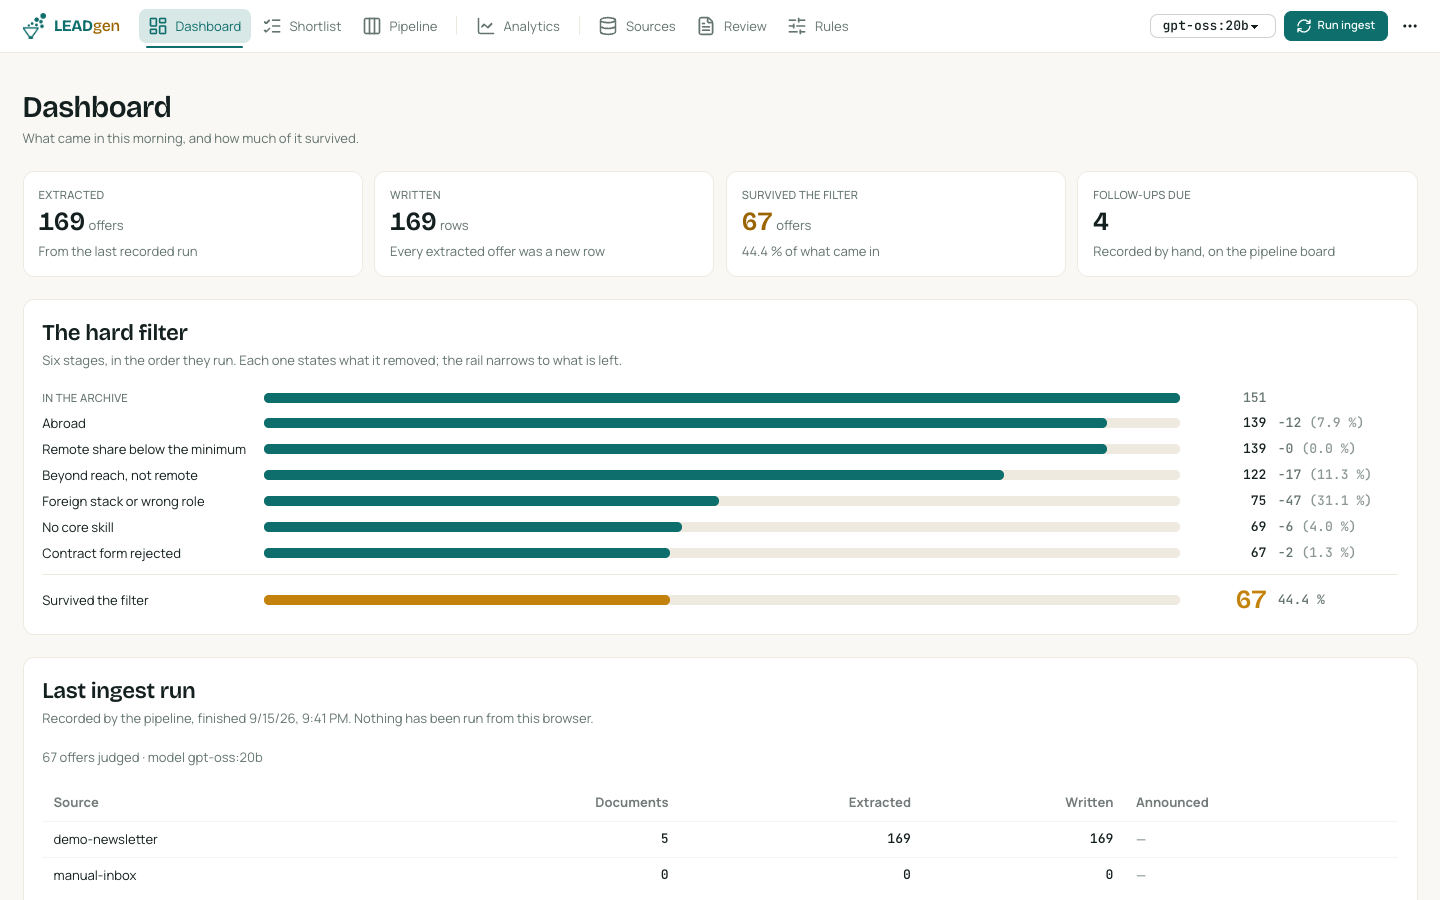
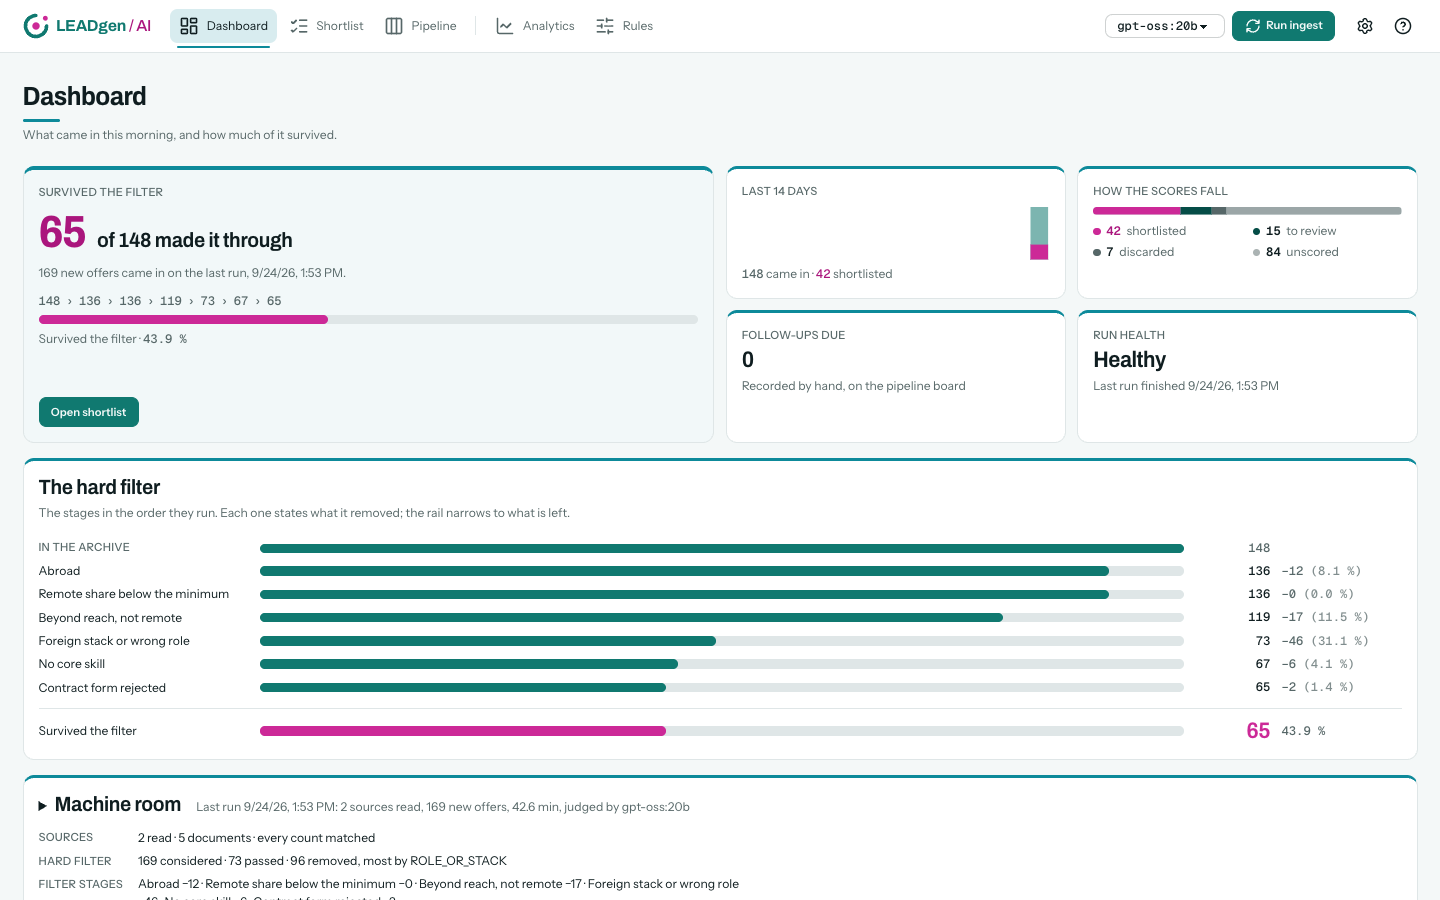
Bump version to 0.5.0
The changelog section for 0.5.0 carries the release notes: the workflow view, the help drawer,
the cover letter written against the ad, and the renovated interface, which is why the minor
moves. The README screenshots are retaken from the demo stack, light theme leading; the parked
review screen gives its place to the help drawer.

diff --git a/frontend/src/app/app.spec.ts b/frontend/src/app/app.spec.ts
@@ -21,7 +21,7 @@ describe('App', () => {
         const fixture = TestBed.createComponent(App);
         fixture.detectChanges();
 
-      httpMock.expectOne('/api/v1/status').flush({application: 'lead-generation', version: '0.4.3'});
+      httpMock.expectOne('/api/v1/status').flush({application: 'lead-generation', version: '0.5.0'});
         // The header asks for the models it may offer at the same time. Answered with one,
         // which is the shipped state: a single model is not a choice, so the select stays
         // hidden and only the run button is there.
@@ -36,7 +36,7 @@ describe('App', () => {
         await fixture.whenStable();
         fixture.detectChanges();
 
-      expect(fixture.nativeElement.textContent).toContain('lead-generation 0.4.3');
+      expect(fixture.nativeElement.textContent).toContain('lead-generation 0.5.0');
         httpMock.verify();
     });
 });

diff --git a/backend/src/test/java/de/codeministry/leadgen/web/StatusControllerTest.java b/backend/src/test/java/de/codeministry/leadgen/web/StatusControllerTest.java
@@ -19,7 +19,7 @@ import org.springframework.test.web.servlet.assertj.MockMvcTester;
 // into the `spring-boot-webmvc-test` module. The old import compiles against
 // Boot 3 and simply does not exist here.
 @WebMvcTest(StatusController.class)
-@TestPropertySource(properties = {"spring.application.name=lead-generation", "leadgen.version=0.4.3"})
+@TestPropertySource(properties = {"spring.application.name=lead-generation", "leadgen.version=0.5.0"})
 class StatusControllerTest {
 
     @Autowired
@@ -30,6 +30,6 @@ class StatusControllerTest {
         Assertions.assertThat(mvc.get().uri("/api/v1/status"))
                 .hasStatusOk()
                 .bodyJson()
-                .isEqualTo("{\"application\":\"lead-generation\",\"version\":\"0.4.3\"}");
+                .isEqualTo("{\"application\":\"lead-generation\",\"version\":\"0.5.0\"}");
     }
 }

diff --git a/backend/src/main/java/de/codeministry/leadgen/web/StatusController.java b/backend/src/main/java/de/codeministry/leadgen/web/StatusController.java
@@ -28,7 +28,7 @@ public class StatusController {
     // generate a constructor without them.
     StatusController(
             @Value("${spring.application.name}") String application,
-            @Value("${leadgen.version:0.4.3}") String version) {
+            @Value("${leadgen.version:0.5.0}") String version) {
         this.application = application;
         this.version = version;
     }

diff --git a/README.md b/README.md
@@ -137,8 +137,8 @@ weights, and enrichment has nothing to fetch because the invented URLs do not re
 | ![Pipeline board](docs/screenshots/pipeline-light.png)   | **Pipeline** — the half of the loop the tool cannot see. Nothing is sent from here, so everything here is recorded by hand.                                                                                                                                                                                                                                                                                                                                                                                                    |
 | ![Analytics](docs/screenshots/analytics-light.png)       | **Analytics** — what the market is doing, and what the rules are doing to it.                                                                                                                                                                                                                                                                                                                                                                                                                                                  |
 | ![Sources](docs/screenshots/sources-dark.png)            | **Sources** — the configuration rather than the database, so a source that has never run still shows up. Opening one shows the block of `sources.yaml` that defines it, secrets masked, beside every run it has had and when its numbers last moved.                                                                                                                                                                                                                                                                           |
-| ![Rules](docs/screenshots/rules-dark.png)                | **Rules** — the hard filter, the weights and the thresholds behind every number on the shortlist, and the prompts as this configuration actually renders them: what the model is asked is the other half of what a score means.                                                                                                                                                                                                                                                                                                |
-| ![Review](docs/screenshots/review-light.png)             | **Review** — an upload becomes an offer only once somebody has seen what was read from it.                                                                                                                                                                                                                                                                                                                                                                                                                                     |
+| ![Rules](docs/screenshots/rules-dark.png)                | **Rules** — the run as a workflow, from ingest to digest: each stage with the last run's count, what it costs, and a marker where a model takes part. Picking a stage shows every key that decides it, the knockouts, the weights and the thresholds behind every number on the shortlist, and the prompt as this configuration actually renders it.                                                                                                                                                                             |
+| ![Help](docs/screenshots/help-light.png)                 | **Help** — a drawer from the header that opens at the chapter of the screen it was opened from, with a how-it-works chapter and its diagrams for the reader who wants to know what happens between a mail and a package.                                                                                                                                                                                                                                                                                                      |
 
 ## Configuration
 

diff --git a/CHANGELOG.md b/CHANGELOG.md
@@ -9,6 +9,14 @@ may change in any release. See the status note in the README.
 
 ## [Unreleased]
 
+## [0.5.0] — 2026-09-24
+
+The rules screen becomes the workflow view, the app explains itself in a help drawer, a
+package carries a cover letter written against the ad, and the frontend is renovated in one
+pass. No configuration key changes meaning: `LLM_MODEL_WRITING` and `cover-letter.yaml` are new
+and optional, and `GET /api/v1/ingest/last` and `GET /api/v1/prompts` grow additively. The
+minor moves because the interface was redesigned end to end, not because the runtime changed.
+
 ### Added
 
 - Help, behind a button at the right of the header: a drawer that opens at the chapter of the
@@ -16,7 +24,6 @@ may change in any release. See the status note in the README.
   phases of a run, how the parts work together, the path of an application), in English and
   German. The diagrams are rendered to SVG by `bun run help:diagrams` and committed.
 - "Run ingest" asks for confirmation before a run starts.
-
 - The cover letter is written against the ad. With `LLM_MODEL_WRITING` set, the package build asks
   that model once for a structured draft and `CoverLetterGuard` checks it before a byte is written:
   every skill it names is in the profile and in the ad or the stack of a chosen reference project,
@@ -71,9 +78,17 @@ may change in any release. See the status note in the README.
   `GET /api/v1/workflow`; `GET /api/v1/ingest/last` additionally carries `enriched`, and
   `GET /api/v1/prompts` additionally serves the fields prompt — both additive (spec
   `008-rules-workflow-view`).
+- `docs/EMBEDDINGS.md`: the guide to the vectors — the two columns and the three kept in
+  memory, the path from text through the width check into pgvector, the dedupe bands, the
+  search that narrows and the letter's reference ranking, which numbers are thresholds and
+  what measures them, what a vector may never decide, and the tool without an embedding
+  model — with four diagrams.
 
 ### Fixed
 
+- "Fetch the ad again" on a page that still failed stored nulls over the duration, rate and
+  workload the offer already had, so the card forgot them; a failed fetch now keeps every value
+  it could not read. A refused connection no longer leaves the note "unreachable: null".
 - A run whose stage threw left its history row `RUNNING` with zeros until the next start
   closed it as `ABANDONED`, and its timings were lost. It now closes as `FAILED` with the
   counts it had reached and every timing, the failed one last; `POST /api/v1/ingest` answers
@@ -84,6 +99,10 @@ may change in any release. See the status note in the README.
 
 ### Changed
 
+- The stores connect to the Redux DevTools extension in a dev build and to a stub in a
+  production one, so a deployed instance exposes no state.
+- The header holds five destinations; the labelled navigation row and the wordmark stay down to
+  1024 px, and the wordmark reads LEADgen / AI.
 - The frontend was renovated in one pass (spec `003-visual-renovation`): a new palette in
   both themes — teal and a cool neutral by day, lavender on indigo-black by night, magenta as
   the one signal colour that means "this survived the filter" — with the dark theme as the
@@ -1220,7 +1239,8 @@ Found while building the demo, all of them in paths only a container exercises:
   left six.
 - The shortlist card printed the description's Markdown syntax in its teaser.
 
-[Unreleased]: https://github.com/codeministry/leadgen/compare/v0.4.3...HEAD
+[Unreleased]: https://github.com/codeministry/leadgen/compare/v0.5.0...HEAD
+[0.5.0]: https://github.com/codeministry/leadgen/releases/tag/v0.5.0
 [0.4.3]: https://github.com/codeministry/leadgen/releases/tag/v0.4.3
 [0.4.2]: https://github.com/codeministry/leadgen/releases/tag/v0.4.2
 [0.4.1]: https://github.com/codeministry/leadgen/releases/tag/v0.4.1
